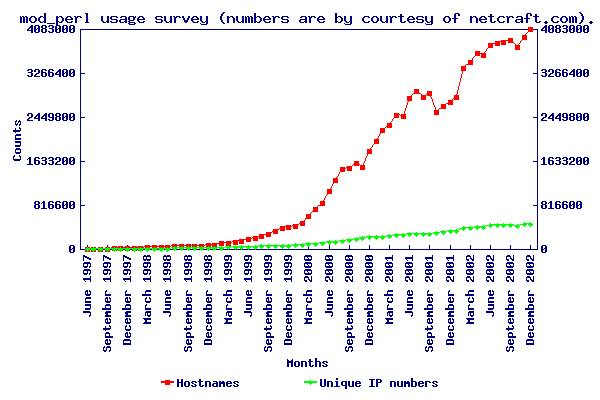
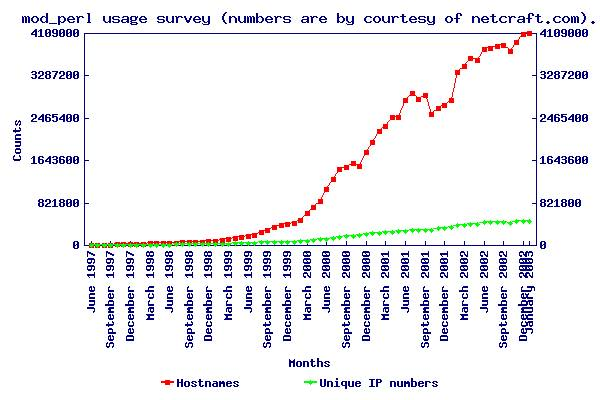
jan2003 update
git-svn-id: https://svn.apache.org/repos/asf/perl/modperl/docs/trunk@67006 13f79535-47bb-0310-9956-ffa450edef68

Changed region(s): [[0.03, 0.03, 0.99, 0.87], [0.48, 0.9, 0.57, 0.93]]

diff --git a/src/outstanding/stats/securityspace.html b/src/outstanding/stats/securityspace.html
@@ -7,12 +7,12 @@
 <body bgcolor="#ffffff">
 
 <p> SecuritySpace provides an <a
-href="http://www.securityspace.com/s_survey/data/man.200212/apachemods.html?mod=cGVybA==">Apache
+href="http://www.securityspace.com/s_survey/data/man.200301/apachemods.html?mod=cGVybA==">Apache
 Module Report on mod_perl</a> comprising statistics and a graph based
 on the data collected by <a
 href="http://www.securityspace.com/">www.securityspace.com</a>. They
 also feature <a
-href="http://www.securityspace.com/s_survey/data/man.200212/apachemods.html">a
+href="http://www.securityspace.com/s_survey/data/man.200301/apachemods.html">a
 comparison</a> between all the Apache modules they survey.  </p>
 
 </body>

diff --git a/src/outstanding/stats/netcraft.html b/src/outstanding/stats/netcraft.html
@@ -31,6 +31,7 @@ http://www.netcraft.com/survey/Reports/200206/mod_perl.txt till July
 
 <table cellpadding="3" border="1" cellspacing="0">
 <tr><th>Survey</th><th>Hostnames</th><th>Unique IP Addresses</th></tr>
+<tr><td> January 2003   </td><td>4108930</td><td>458057</td></tr>
 <tr><td> December 2002  </td><td>4082690</td><td>461309</td></tr>
 <tr><td> November 2002  </td><td>3943776</td><td>462402</td></tr>
 <tr><td> October 2002   </td><td>3753202</td><td>434418</td></tr>
